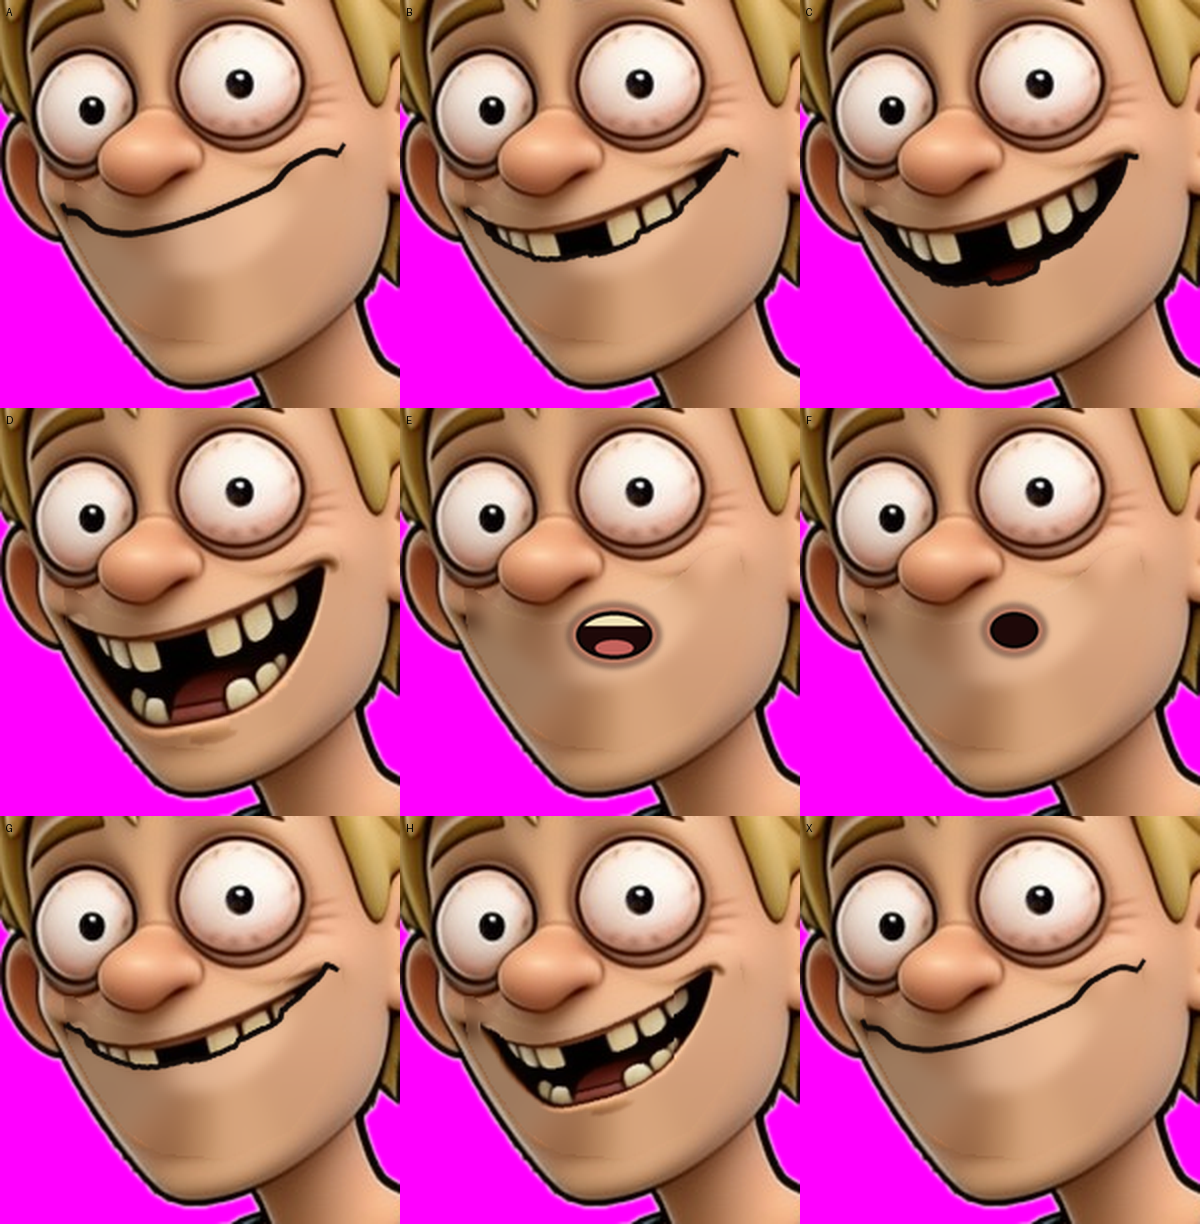
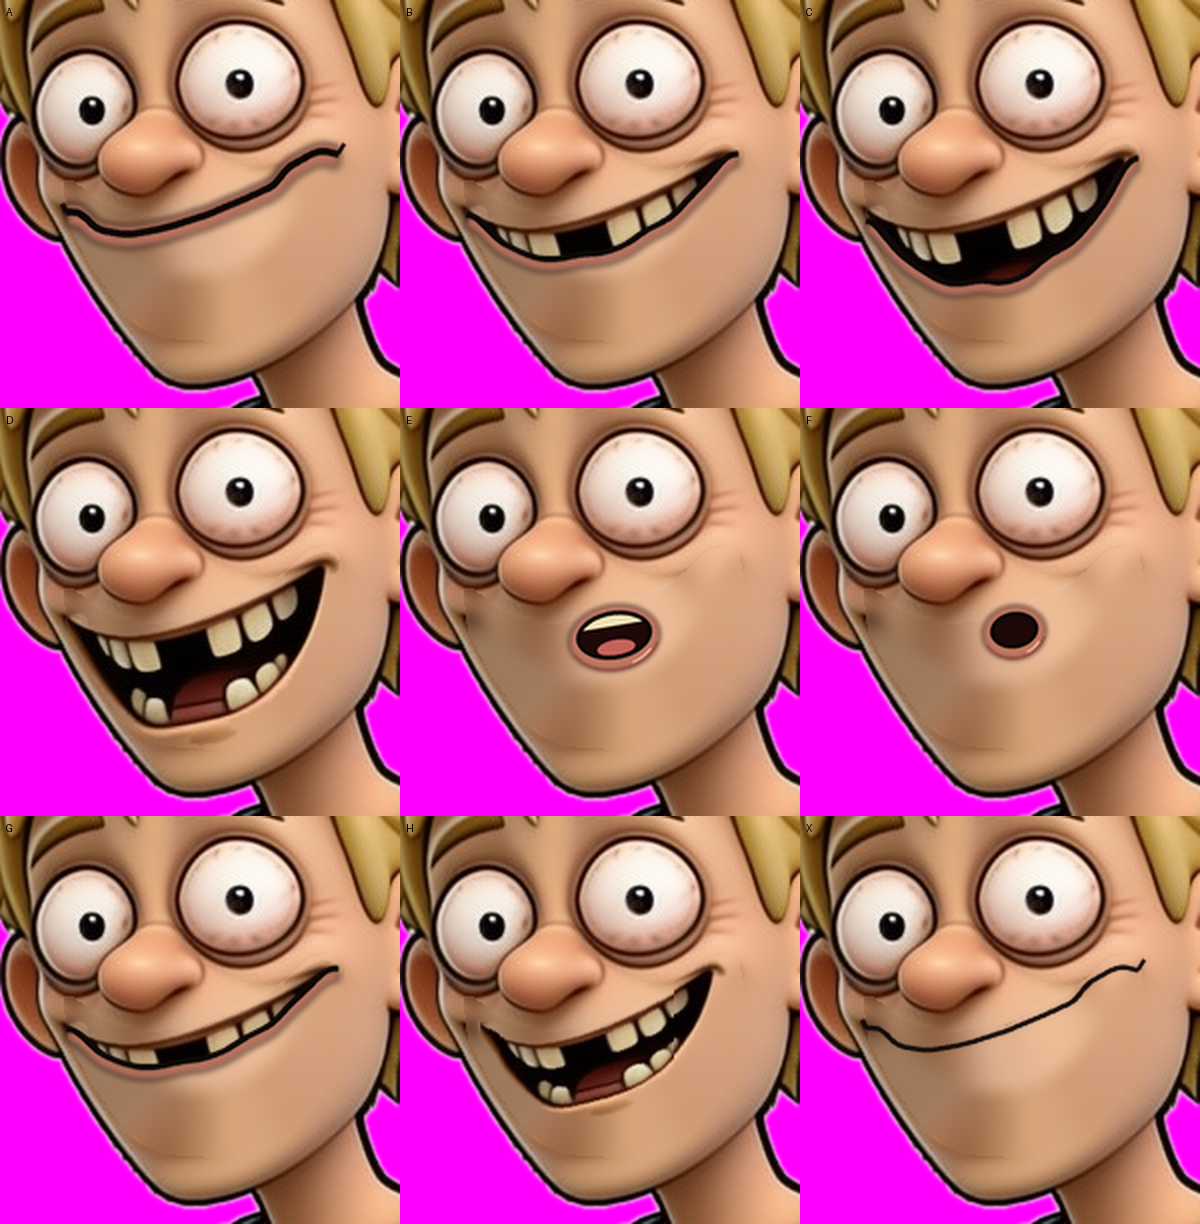
Dazza mouths v4: smoother lower lip on B/C/G, pressed lips on A, tilted shaded E/F

diff --git a/tools/blender/make_dazza_mouths.py b/tools/blender/make_dazza_mouths.py
@@ -134,7 +134,25 @@ def squashed(orig, mask, extents, k, xscale=1.0):
     return np.dstack([rgb, alpha])
 
 
-def closed_line(extents, thick):
+LIP = (190, 118, 98, 255)
+TILT = math.degrees(math.atan2(R[1] - L[1], R[0] - L[0]))
+
+
+def lip_band(size, pts, width, colour, blur, dy=0.0):
+    """A soft coloured band along a line: the lip skin next to the line."""
+    layer = Image.new("RGBA", size, (0, 0, 0, 0))
+    ImageDraw.Draw(layer).line([(x, y + dy * SS) for x, y in pts], fill=colour,
+                               width=int(width * SS), joint="curve")
+    return layer.filter(ImageFilter.GaussianBlur(blur * SS))
+
+
+def smooth_curve(xs, ys, sigma):
+    good = ~np.isnan(ys)
+    ys = np.interp(xs, xs[good], ys[good])
+    return cv2.GaussianBlur(ys.reshape(1, -1).astype(np.float32), (0, 0), sigma).ravel()
+
+
+def closed_line(extents, thick, pressed=False):
     x0, x1, top, bot = extents
     left, top_box, right, bottom_box = BOX
     xs = np.arange(int(x0), int(x1) + 1)
@@ -144,8 +162,11 @@ def closed_line(extents, thick):
     ys = cv2.GaussianBlur(ys.reshape(1, -1).astype(np.float32), (0, 0), 3).ravel()
     w, h = (right - left) * SS, (bottom_box - top_box) * SS
     im = Image.new("RGBA", (w, h), (0, 0, 0, 0))
-    d = ImageDraw.Draw(im)
     pts = [((x - left) * SS, (y + 3 - top_box) * SS) for x, y in zip(xs, ys)]
+    if pressed:
+        im.alpha_composite(lip_band(im.size, pts, 5.5, LIP, 1.4, dy=-1.8))
+        im.alpha_composite(lip_band(im.size, pts, 7.5, LIP, 1.8, dy=3.4))
+    d = ImageDraw.Draw(im)
     d.line(pts, fill=INK, width=int(thick * SS), joint="curve")
     ex, ey = pts[-1]
     d.line([(ex, ey), (ex + 3 * SS, ey - 5 * SS)], fill=INK, width=int(2.4 * SS))
@@ -180,6 +201,8 @@ def lip_cut(orig, mask, extents, frac):
     for x in range(int(x0), int(x1) + 1):
         if not np.isnan(top[x]):
             cut[x] = top[x] + frac * (bot[x] - top[x])
+    xr = np.arange(int(x0), int(x1) + 1)
+    cut[xr] = smooth_curve(xr, cut[xr], 4)
     col = np.clip(xs, 0, len(top) - 1)
     limit = cut[col]
     keep = ~np.isnan(limit) & (ys <= limit)
@@ -191,7 +214,9 @@ def lip_cut(orig, mask, extents, frac):
     d = ImageDraw.Draw(big)
     xs_line = [x for x in range(int(x0), int(x1) + 1) if not np.isnan(cut[x])]
     pts = [((x - left) * SS, (cut[x] - top_box) * SS) for x in xs_line]
-    d.line(pts, fill=INK, width=int(2.8 * SS), joint="curve")
+    big.alpha_composite(lip_band(big.size, pts, 6.0, LIP, 1.6, dy=3.4))
+    d = ImageDraw.Draw(big)
+    d.line(pts, fill=INK, width=int(3.0 * SS), joint="curve")
     big = big.resize(img.size, Image.LANCZOS)
     img.alpha_composite(big)
     return img
@@ -207,22 +232,28 @@ def round_mouth(extents, spec):
     d = ImageDraw.Draw(im)
     px, py = (cx - left) * SS, (cy - top_box) * SS
     rx, ry = spec["rx"] * SS, spec["ry"] * SS
-    ring = 3.5 * SS
+    ring = 3.8 * SS
     lip = Image.new("RGBA", im.size, (0, 0, 0, 0))
-    ImageDraw.Draw(lip).ellipse([px - rx - ring, py - ry - ring, px + rx + ring, py + ry + ring], fill=(196, 128, 104, 255))
-    im.alpha_composite(lip.filter(ImageFilter.GaussianBlur(1.6 * SS)))
+    ld = ImageDraw.Draw(lip)
+    ld.ellipse([px - rx - ring, py - ry - ring * 0.8, px + rx + ring, py + ry + ring * 1.5], fill=LIP)
+    im.alpha_composite(lip.filter(ImageFilter.GaussianBlur(1.2 * SS)))
     d = ImageDraw.Draw(im)
+    d.arc([px - rx - ring, py - ry - ring * 0.8, px + rx + ring, py + ry + ring * 1.5], 20, 160,
+          fill=(150, 80, 66, 255), width=int(1.6 * SS))
     d.ellipse([px - rx, py - ry, px + rx, py + ry], fill=MOUTH_DARK, outline=INK, width=int(2.4 * SS))
     if spec["teeth"]:
         d.pieslice([px - rx * 0.8, py - ry, px + rx * 0.8, py + ry * 0.2], 180, 360, fill=TEETH)
         d.ellipse([px - rx * 0.5, py + ry * 0.2, px + rx * 0.5, py + ry * 0.85], fill=TONGUE)
         d.ellipse([px - rx, py - ry, px + rx, py + ry], outline=INK, width=int(2.4 * SS))
+    d.arc([px - rx - ring * 0.6, py - ry - ring * 0.6, px + rx + ring * 0.6, py + ry + ring * 1.1], 35, 70,
+          fill=(236, 176, 150, 255), width=int(1.4 * SS))
+    im = im.rotate(-TILT, center=(px, py), resample=Image.BICUBIC)
     return im.resize((right - left, bottom_box - top_box), Image.LANCZOS)
 
 
 def make_sprite(name, orig, mask, extents):
     if name in ("A", "X"):
-        img = closed_line(extents, 3.6 if name == "A" else 3.0)
+        img = closed_line(extents, 3.6, True) if name == "A" else closed_line(extents, 2.6)
     elif name in LIP_CUT:
         img = lip_cut(orig, mask, extents, LIP_CUT[name])
     elif name in ROUND:

diff --git a/docs/reference/dazza-talks.md b/docs/reference/dazza-talks.md
@@ -16,11 +16,15 @@ The audio is from the deck's own render of that line (Act I, beat 19).
    The line used 7 of the 9 shapes. The list is `dazza_pants_cues.json`.
 2. **Dazza without his grin.** His approved picture has a big open grin, so
    `tools/blender/make_dazza_mouths.py` paints it out (`dazza-nomouth.png`).
-3. **Nine mouths from his own grin.** (Version 3.) The same script cuts his
+3. **Nine mouths from his own grin.** (Version 4.) The same script cuts his
    real grin out of the picture. D and H are it squeezed; the small and
    medium mouths keep his full-size upper teeth and raise a lower lip; the
    "oh" and "oo" are drawn, so the teeth, gap, tongue and
-   shading are his own art. The closed shapes are a line along his top lip.
+   shading are his own art. The closed shapes are a line along his top lip;
+   A (lips pressed, for M, B, P) also has a pink band of lip around the
+   line, X (rest) is a thin line. The lower lip on B, C and G is a smooth
+   curve with lip skin under it, and "oh" and "oo" are tilted to match his
+   head.
    They go in a 3x3 sheet (`dazza-mouths.png`, shown below). Version 1 had
    mouths drawn with code; they looked flat and did not match him.
 4. **Swap on cue.** `tools/blender/talk_scene.py` puts the mouth sheet on a
@@ -82,7 +86,7 @@ pass `--audio` and `--cues`.
 
 - The open mouths are one grin squashed, so teeth look a bit thin when the
   mouth is nearly shut and "oo" is just a narrow grin, not pursed lips.
-- A and X (closed) look almost the same, and the closed mouth is only a line.
+- A and X (closed) are now different (A has pink lips pressed together), but both are still only a line on his face, and the face has no cheek creases when the grin is gone, so E and F can still look a bit stuck on.
 - His head does not move, tilt or nod while talking, and his eyes do not blink.
   Talking looks stiff.
 - Only one angle: the mouths fit his face as drawn (slightly turned). A big
